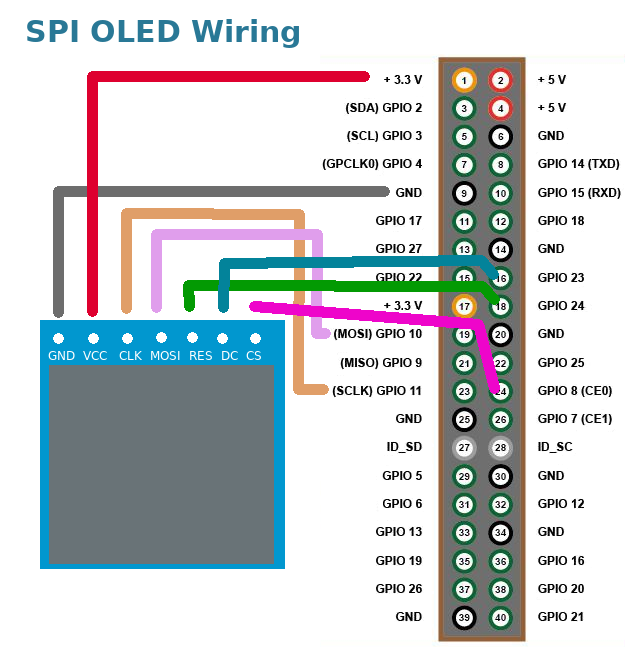
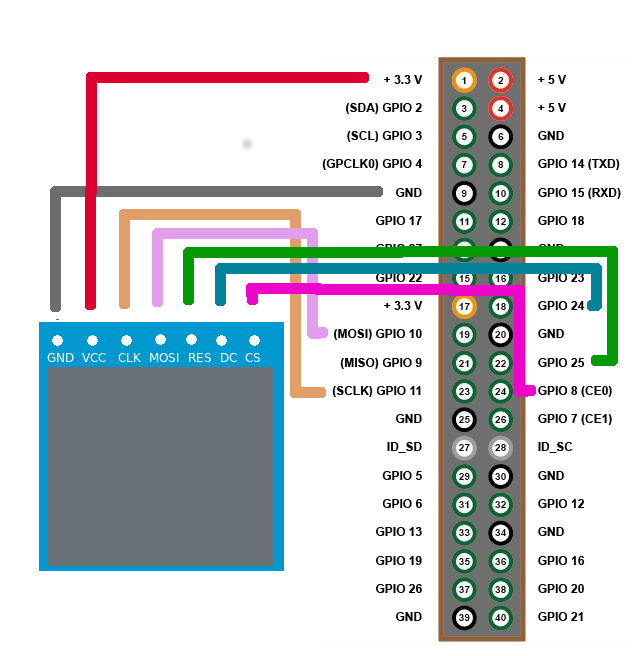
Fix SPI initialization and SPI wiring image

Changed region(s): [[0.06, 0.2744, 0.9905, 0.8841], [0.03, 0.0305, 0.4803, 0.0915], [0.6003, 0.2744, 0.6303, 0.3049]]

diff --git a/ArduiPi_OLED.cpp b/ArduiPi_OLED.cpp
@@ -356,7 +356,7 @@ boolean ArduiPi_OLED::select_oled(uint8_t OLED_TYPE, int8_t i2c_addr)
 
 // initializer for SPI - we indicate the pins used and OLED type
 //
-boolean ArduiPi_OLED::init(int8_t DC, int8_t RST, int8_t CS, uint8_t OLED_TYPE) 
+boolean ArduiPi_OLED::init_spi(int8_t DC, int8_t RST, int8_t CS, uint8_t OLED_TYPE)
 {
   rst = RST;  // Reset Pin
   dc = DC;    // Data / command Pin
@@ -385,7 +385,7 @@ boolean ArduiPi_OLED::init(int8_t DC, int8_t RST, int8_t CS, uint8_t OLED_TYPE)
 }
 
 // initializer for I2C - we only indicate the reset pin and OLED type !
-boolean ArduiPi_OLED::init(int8_t RST, uint8_t OLED_TYPE, int8_t i2c_addr,
+boolean ArduiPi_OLED::init_i2c(int8_t RST, uint8_t OLED_TYPE, int8_t i2c_addr,
     int i2c_bus)
 {
   dc = cs = -1; // DC and chip Select do not exist in I2C

diff --git a/ArduiPi_OLED.h b/ArduiPi_OLED.h
@@ -150,12 +150,12 @@ class ArduiPi_OLED : public Adafruit_GFX
   ArduiPi_OLED();
 
   // SPI Init
-  boolean init(int8_t DC, int8_t RST, int8_t CS, uint8_t OLED_TYPE);
+  boolean init_spi(int8_t DC, int8_t RST, int8_t CS, uint8_t OLED_TYPE);
   
   // I2C Init
-  boolean init(int8_t RST, uint8_t OLED_TYPE, int8_t i2c_addr, int i2c_bus);
+  boolean init_i2c(int8_t RST, uint8_t OLED_TYPE, int8_t i2c_addr, int i2c_bus);
 
-  boolean oled_is_spi_proto(uint8_t OLED_TYPE); /* to know protocol before init */
+  boolean oled_is_spi_proto(uint8_t OLED_TYPE); /* to know protocol before /init */
   boolean select_oled(uint8_t OLED_TYPE, int8_t i2c_addr=0) ;
   
   void begin(void);

diff --git a/display.cpp b/display.cpp
@@ -231,13 +231,13 @@ bool init_display(ArduiPi_OLED &display, int oled, unsigned char i2c_addr,
 {
   if (display.oled_is_spi_proto(oled)) {
     // SPI change parameters to fit to your LCD
-    if ( !display.init(spi_dc_gpio, reset_gpio, spi_cs, oled) )
+    if ( !display.init_spi(spi_dc_gpio, reset_gpio, spi_cs, oled) )
       return false;
     bcm2835_spi_set_speed_hz(1e6); // ~1MHz
   }
   else {
     // I2C change parameters to fit to your LCD
-    if ( !display.init(reset_gpio, oled, i2c_addr, i2c_bus) )
+    if ( !display.init_i2c(reset_gpio, oled, i2c_addr, i2c_bus) )
       return false;
   }
 
